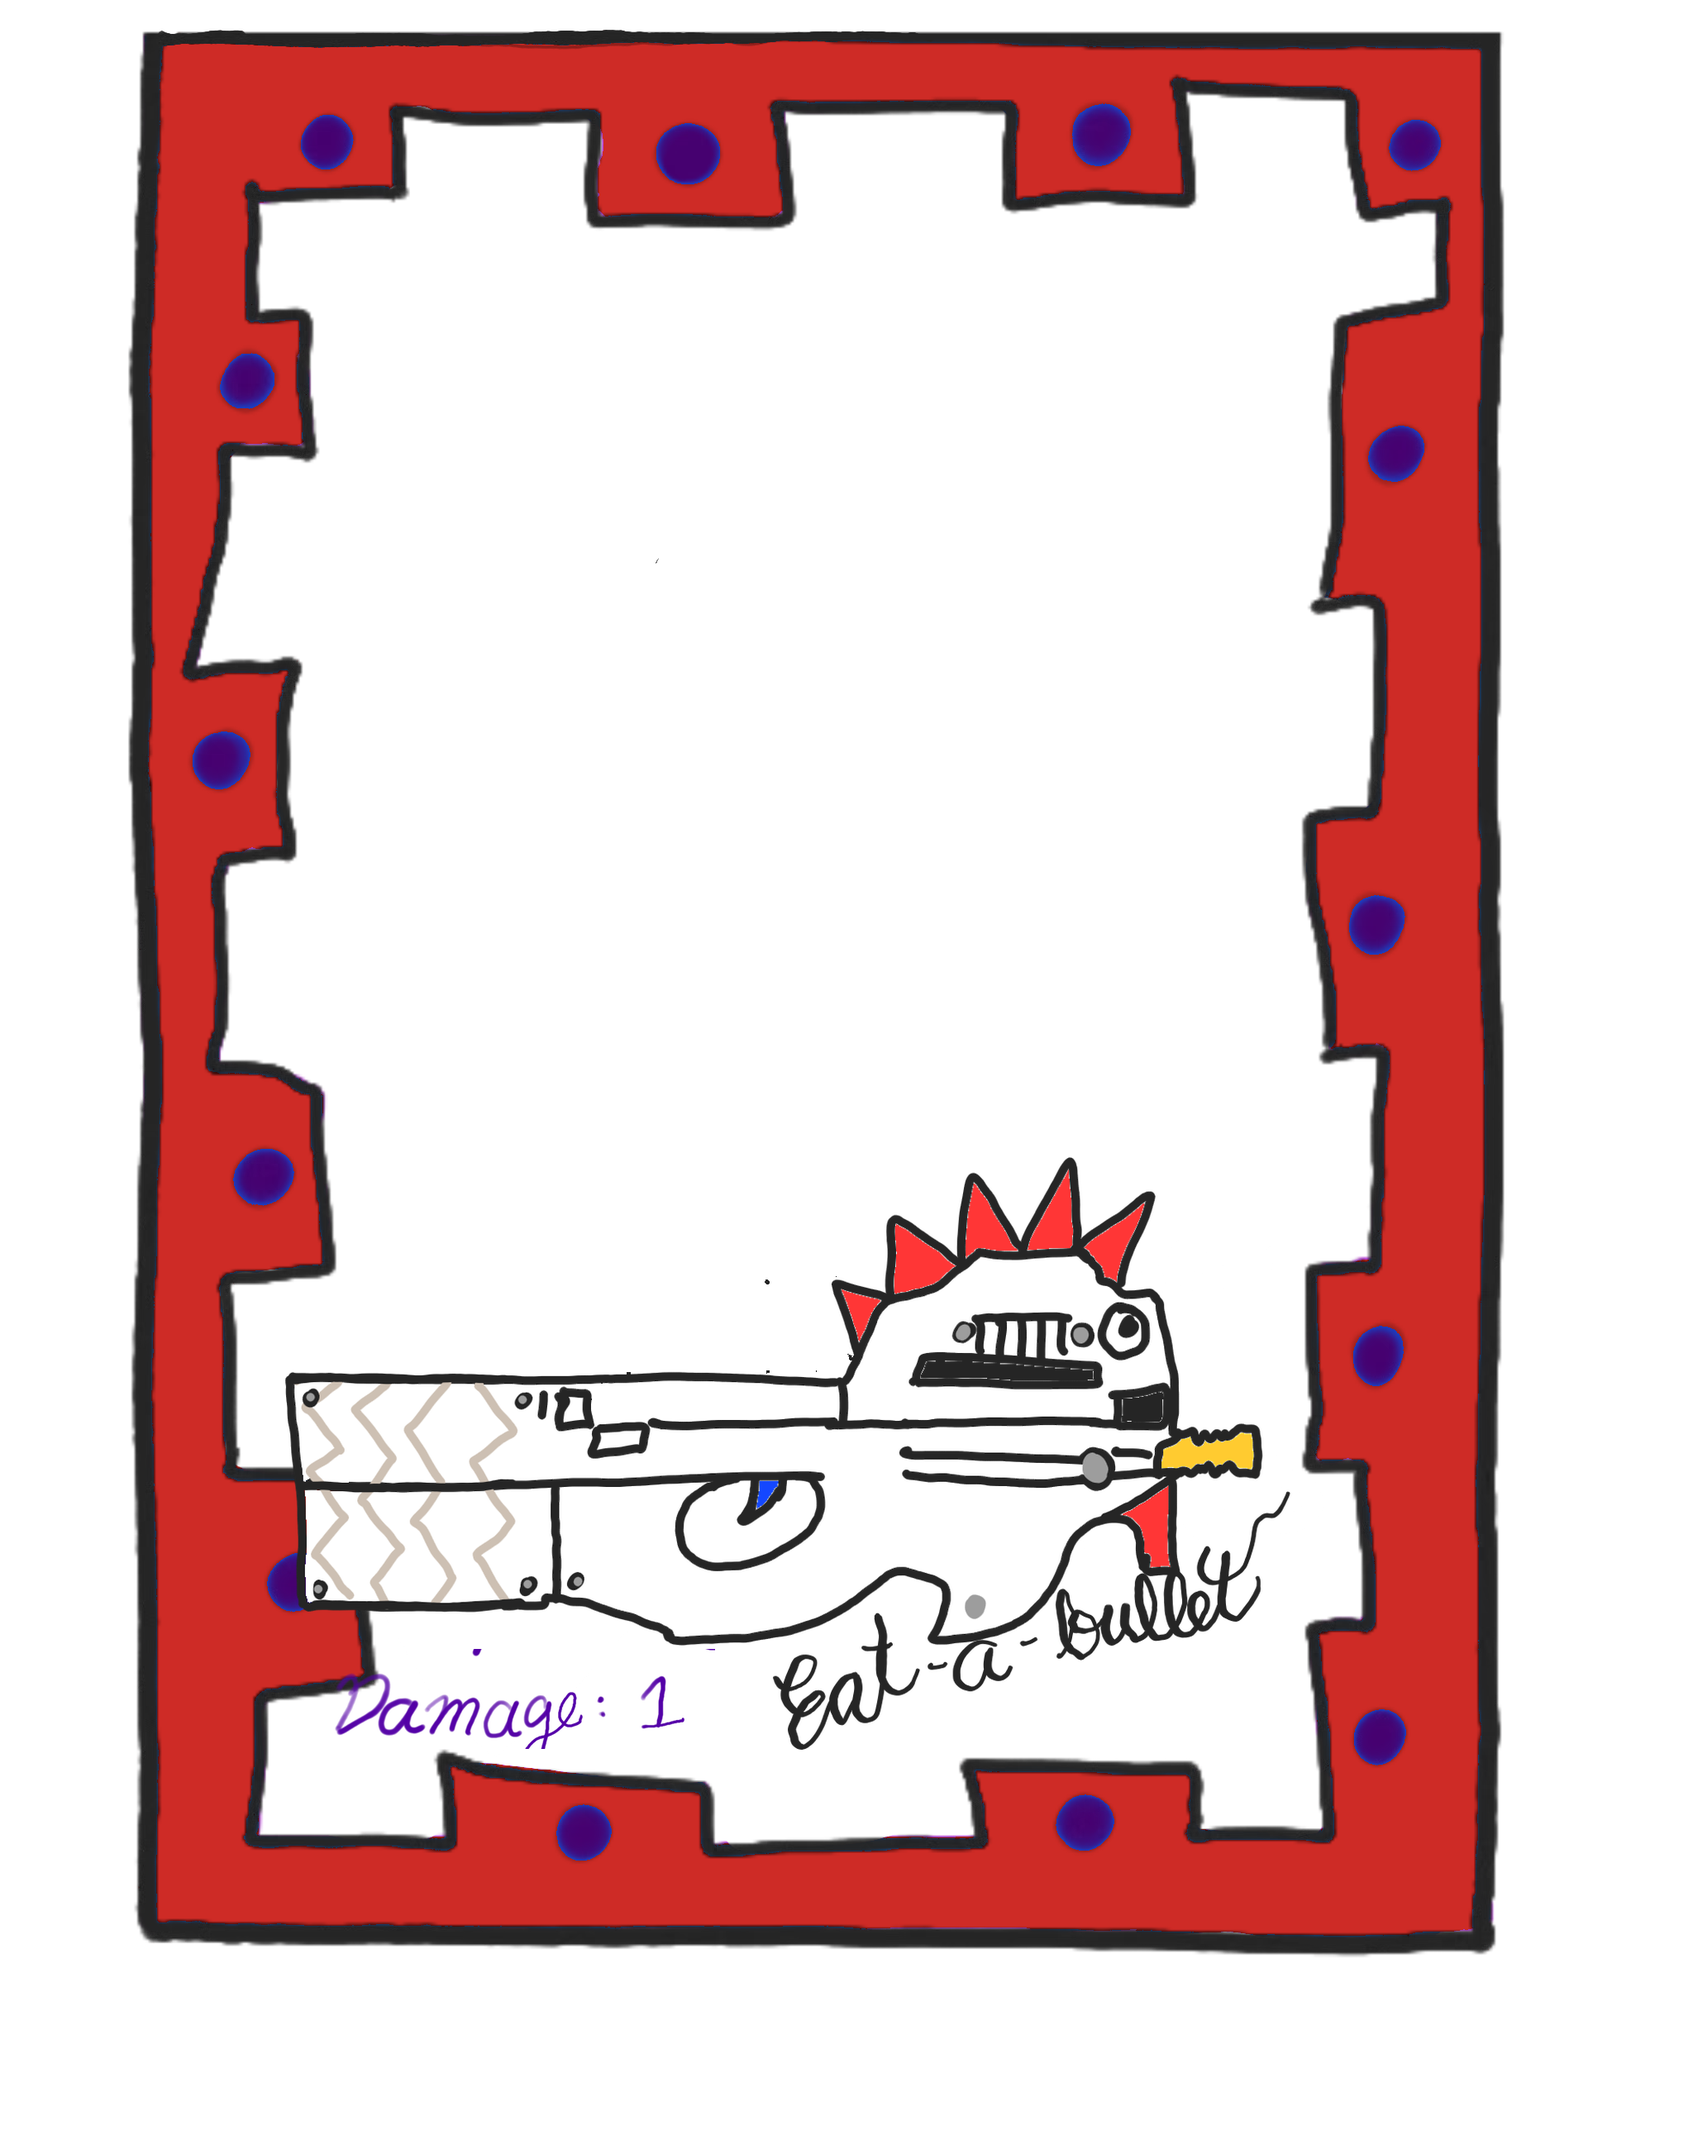
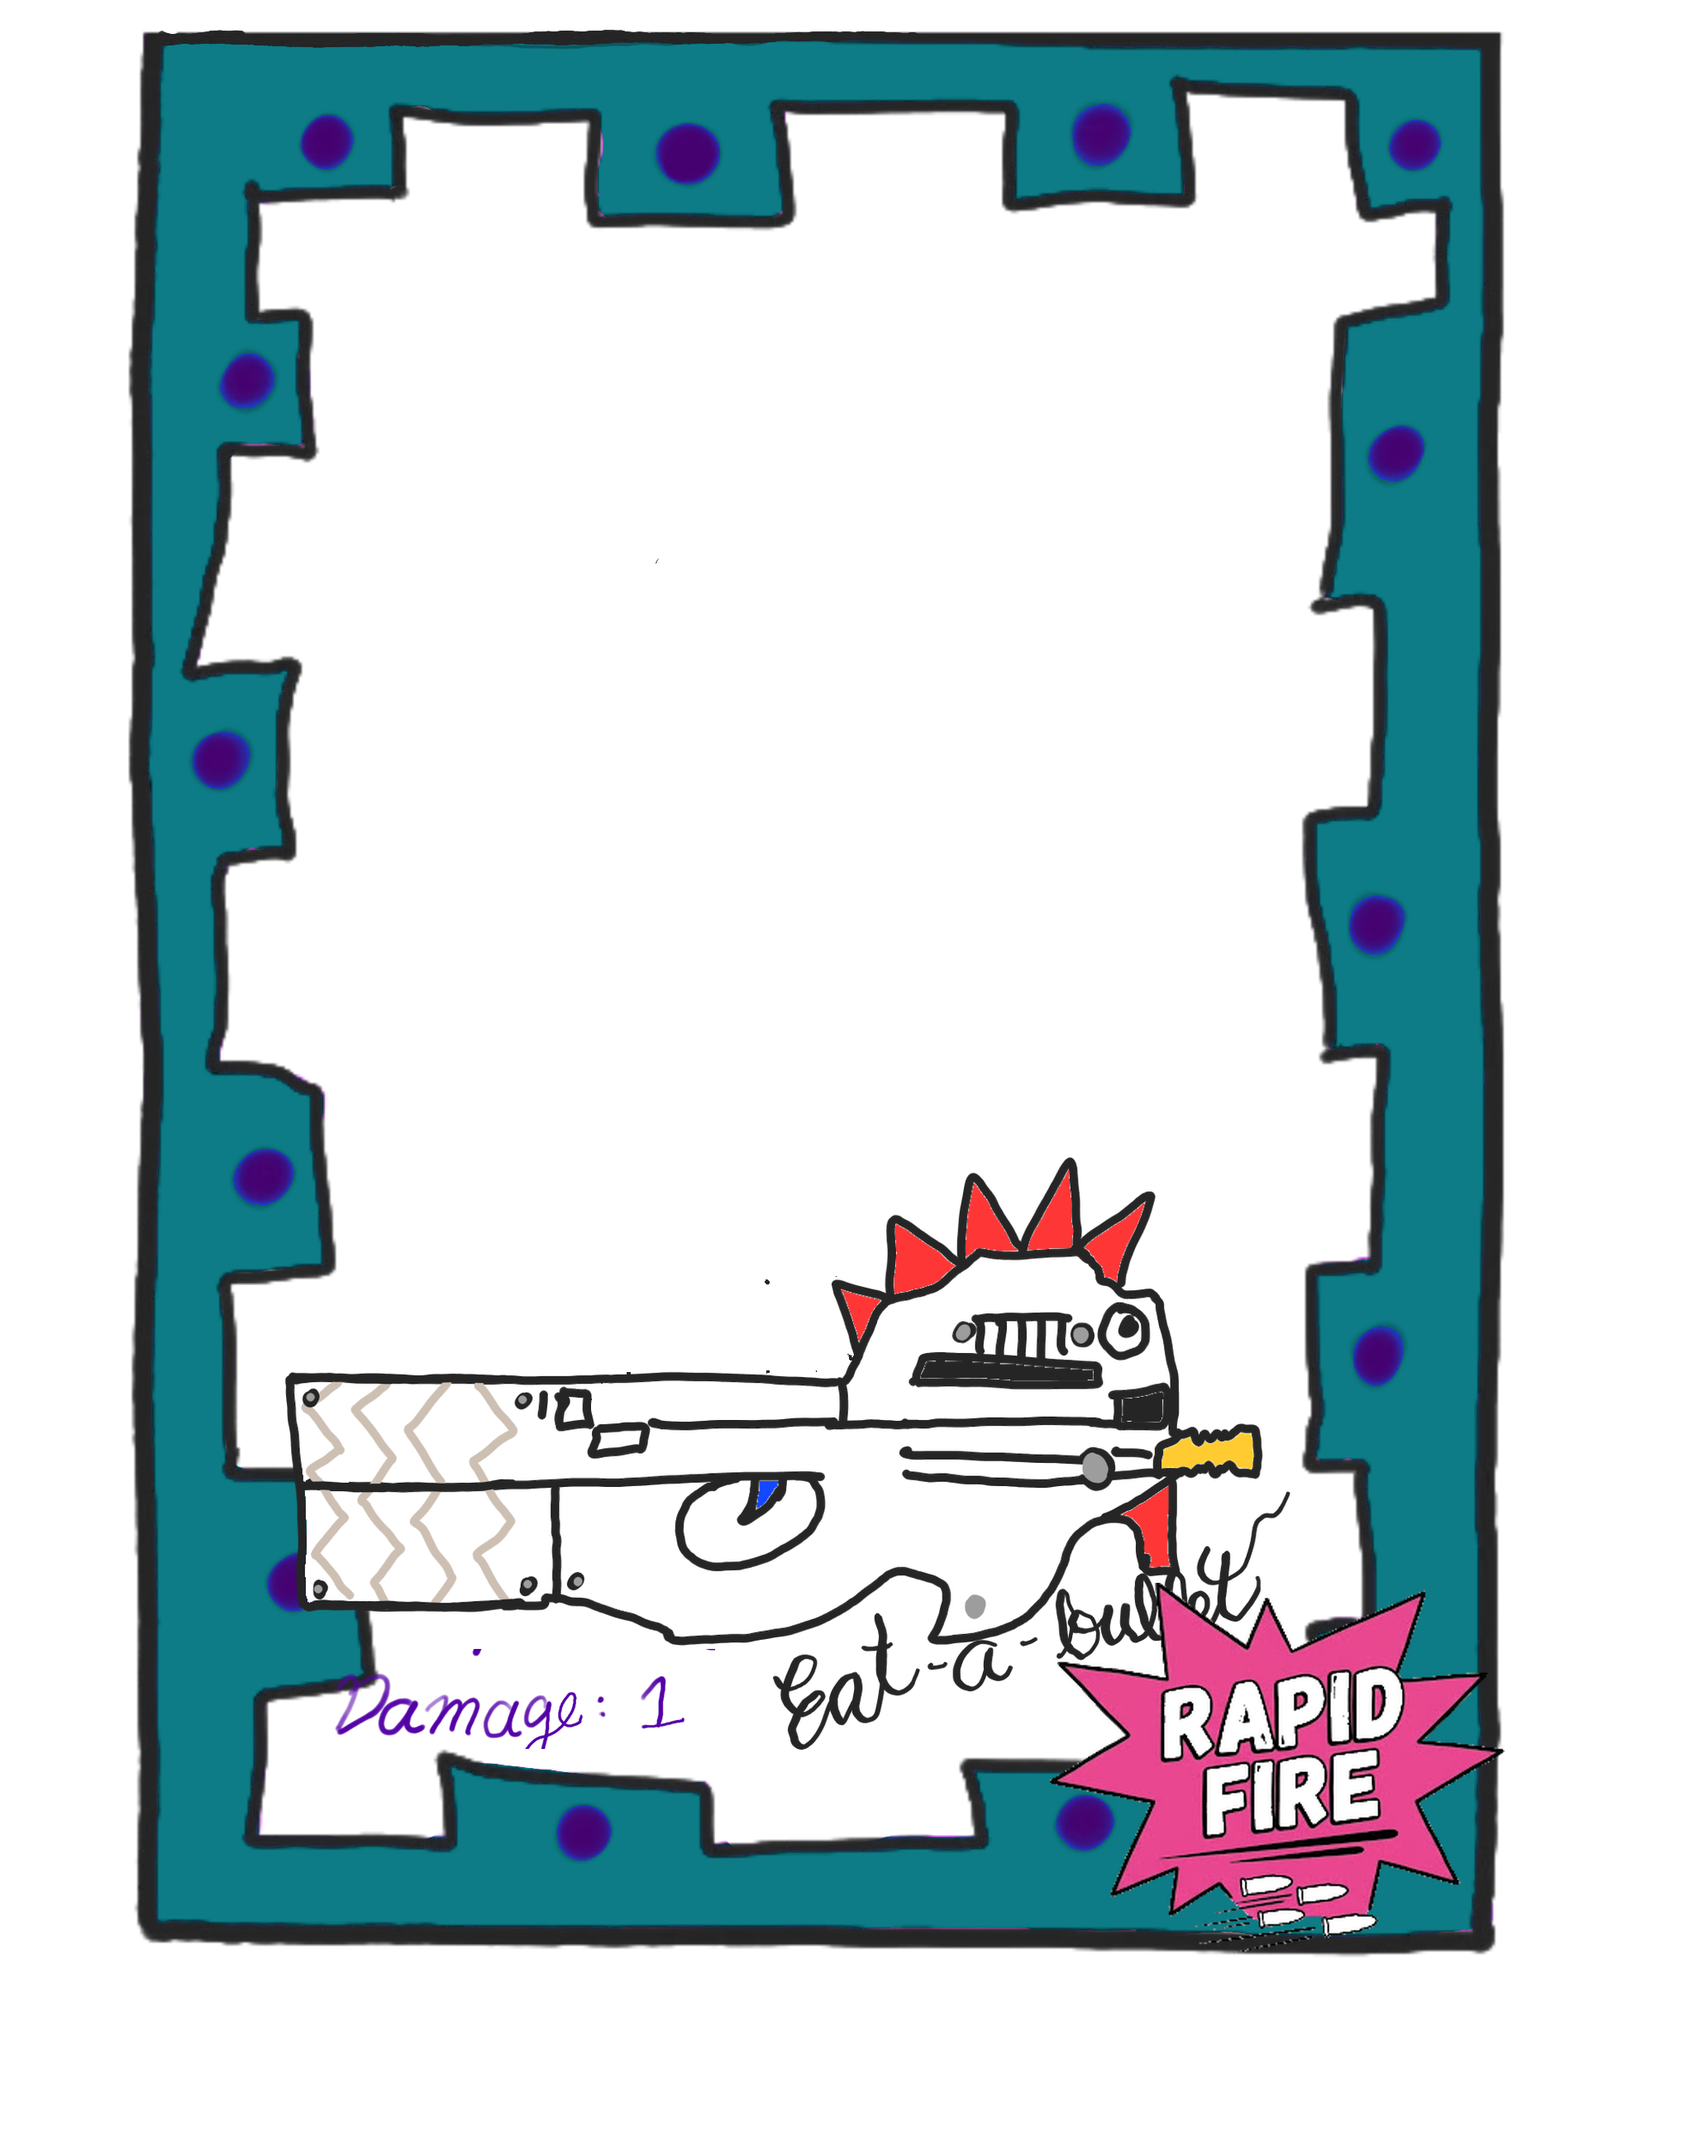
Flash RAPID FIRE on the Eat-a-bullet card
The 5 s cooldown is the whole difference between this weapon and Pewster,
and nothing on the card said so - a player reading the poster across the
warm-up room saw two guns that both do one damage. The sticker Charles sent
goes in the bottom-right corner, sized as large as clears the weapon's own
name and stays inside the artwork's bounding box: load_base_image crops to
that box, so growing it would slide the whole drawing against the QR code it
is drawn around.

The frame goes teal, not the red the gun's crest suggested: the flash is hot
pink, which muddled against red. Still a colourway none of the other cards
use, and still not the blue Tracka-Tracka carries.

The sticker arrived as a JPEG of a transparent PNG over an editor's
checkerboard, so it is keyed out by flood-filling inwards from the border -
every white that matters (the lettering, the bullets) is fenced in by the
drawing's own black outline. The mask is decided on a median-filtered copy,
which closes the JPEG's ringing so the fill does not fence itself out of the
background, but the pixels kept come from the original, whose bullet
outlines are a pixel wide and do not survive a median at all.

Nothing moves in the QR pocket - the flash sits well below it, so the ink
measure is unchanged at 2.5% against its 5% limit.

Claude-Session: https://claude.ai/code/session_01TJWBuvGVjcpyqrNK72dPFK

Changed region(s): [[0.0625, 0.0, 0.875, 0.9035]]

diff --git a/backend/generate_qr_items.py b/backend/generate_qr_items.py
@@ -220,13 +220,15 @@ def base_image_path(
     standard-delay weapons keep their plain ``weapon_<damage>.png`` names,
     since those are the cards that were drawn first; a weapon at any other
     delay wants ``weapon_<damage>_<delay>.png``, and prints as a bare QR code
-    until somebody draws it one. ``weapon_1_5.png`` is Eat-a-bullet's, put
-    together out of the parts the pack already had rather than drawn fresh:
-    the frame every other card shares in a colour none of them uses, the gun
-    the player's own HUD draws for (1, 5)
+    until somebody draws it one. ``weapon_1_5.png`` is Eat-a-bullet's, mostly
+    put together out of the parts the pack already had rather than drawn
+    fresh: the frame every other card shares in a teal none of them uses, the
+    gun the player's own HUD draws for (1, 5)
     (``react-ui/src/images/art/gun_11.png``, which carries the name in its own
     lettering), and Pewster's "Damage: 1" - which says the truth about this
-    weapon too.
+    weapon too. The one new thing on it is the RAPID FIRE flash in the corner,
+    which is there because the 5 s cooldown is the whole difference between
+    this weapon and Pewster and no card has ever said a cooldown out loud.
     """
     if itype == "weapon":
         suffix = "" if timeout == DEFAULT_SHOT_TIMEOUT else f"_{_trim(timeout)}"

diff --git a/docs/game_day_runbook_2026-09-19.md b/docs/game_day_runbook_2026-09-19.md
@@ -75,8 +75,9 @@ in the box to be hidden round the town, not on a wall.
 One thing about the drawings, so it is not a surprise on the wall: the
 ammunition poster is **5 bullets, not 20** (there is no 20-bullet drawing, and
 being unlimited, five a scan is no less than twenty). Eat-a-bullet has its own
-card now (`weapon_1_5.png`, a red frame), so all six posters name what they
-hand out.
+card now (`weapon_1_5.png`, a teal frame with a pink **RAPID FIRE** flash in
+the corner — it is the one weapon whose 5 s cooldown is worth shouting about),
+so all six posters name what they hand out.
 
 ### The map poster
 
@@ -452,8 +453,10 @@ one place. Each names the PR that made it.
   card's picture is chosen by what it awards and a poster read across a room
   has to say what it is. Eat-a-bullet used to be the other half of this — it
   printed as a bare QR code, having no drawing of its own — and now has
-  `weapon_1_5.png`: the shared card frame in a red none of the others use, the
-  gun the player's HUD already draws for it, and Pewster's "Damage: 1".
+  `weapon_1_5.png`: the shared card frame in a teal none of the others use,
+  the gun the player's HUD already draws for it, Pewster's "Damage: 1", and a
+  **RAPID FIRE** flash in the bottom-right corner, which is the only thing on
+  any card that says a weapon's cooldown out loud.
 - **Radar and circle-warning cards use placeholder artwork** (#259) — an
   existing hand-drawn frame with the item's name written in place of the
   illustration. The number of minutes is deliberately not on the card, since

diff --git a/docs/saturday_milestones_2026-09-19.md b/docs/saturday_milestones_2026-09-19.md
@@ -318,9 +318,13 @@ what it awards and a poster read across a room has to say what it is:
   Pewster, so its poster read "Pewster / Damage: 1"; keying the artwork on the
   (damage, delay) pair fixed the wrong name but left it printing as a bare QR
   code. It has `weapon_1_5.png` now, composited from what the pack already
-  held — the card frame every other card shares, recoloured red; the gun the
+  held — the card frame every other card shares, recoloured teal; the gun the
   player's HUD draws for (1, 5), which carries the name in its own lettering;
-  and Pewster's "Damage: 1", which is true of this weapon too.
+  and Pewster's "Damage: 1", which is true of this weapon too. Plus the one
+  thing that is genuinely new: a **RAPID FIRE** flash in the bottom-right
+  corner, since the 5 s cooldown is the whole difference between this weapon
+  and Pewster and nothing else on the card says it. The frame is teal rather
+  than the red the gun's own crest suggests, because the flash is hot pink.
 
 **For M9's runbook:** the sandbox posters are withdrawn by withdrawing the
 `sandbox` batch at 16:00.
